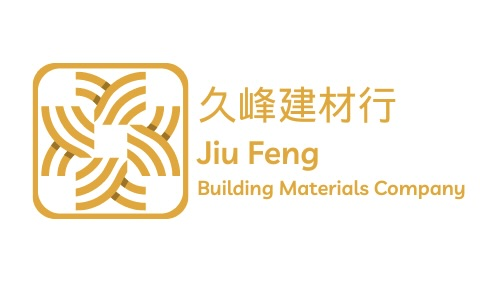
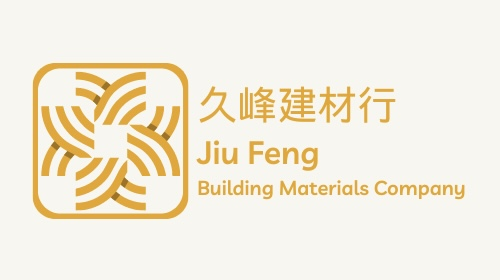
更新圖片與輪播，並完成header與banner排版

diff --git a/index.css b/index.css
@@ -1,106 +1,105 @@
 body {
-        margin: 0;
-        padding: 0;
-        font-family: Arial, sans-serif;
-        background-color: #f8f6f0;
-    }
+	margin: 0;
+	padding: 0;
+	font-family: Arial, sans-serif;
+	background-color: #f8f6f0;
+}
 .header {
-    background-color: transparent; /* 修改為透明 */
-    padding: 20px;
-    text-align: left;
-    height: 15vh;
-    display: flex;
-    align-items: center;
-    justify-content: space-between;
-    position: relative;
-  }
-  
-  .logo {
-    height: 100%;
-    margin-right: 20px;
-    float: left; /* 加入左浮動 */
-  }
-  
-  .logo img {
-    height: 100%;
-  }
+	background-color: transparent;
+	/* 修改為透明*/
+	padding: 20px;
+	text-align: left;
+	height: 15vh;
+	display: flex;
+	align-items: center;
+	justify-content: space-between;
+	position: relative;
+}
+.logo {
+	height: 100%;
+	margin-right: 20px;
+	float: left;
+	/* 加入左浮動*/
+	
+}
+.logo img {
+	height: 100%;
+}
+.menu {
+	list-style-type: none;
+	padding: 0;
+	margin: 0;
+	display: flex;
+	justify-content: flex-end;
+	/* 修改為右對齊*/
+	align-items: center;
+}
+.menu li {
+	margin-right: 20px;
+}
+.menu a {
+	text-decoration: none;
+	color: #333;
+	transition: color 0.2s ease;
+	font-size: 24px;
+	background-color: #fff;
+	border-radius: 10px;
+	padding: 10px 30px;
+}
+.menu li:hover {
+	transform: scale(1.2);
+	transition: transform 0.2s ease;
+}
+.menu li:hover a {
+	color: #666;
+}
+.banner {
+	width: 95vw;
+	height: auto;
+	background-color: #f8f6f0;
+	padding: 20px 0 20px 20px;
+	box-sizing: border-box;
+	position: relative;
+	float: right;	
+}
+.slick-slide {
+	text-align: center;
+	font-size: 18px;
+	background: #f8f6f0;
+	display: flex;
+	justify-content: center;
+	align-items: center;
+	max-height: 100%;
+  border-radius: 150px 0 0 150px;
+  overflow: hidden;
+}
 
-  .menu {
-    list-style-type: none;
-    padding: 0;
-    margin: 0;
-    display: flex;
-    justify-content: flex-end; /* 修改為右對齊 */
-    align-items: center;
-  }
-  
-  .menu li {
-    margin-right: 20px;
-  }
-  
-  .menu a {
-    text-decoration: none;
-    color: #333;
-    transition: color 0.2s ease;
-    font-size: 24px;
-    background-color: #fff;
-    border-radius: 10px;
-    padding: 10px 30px;
-  }
-  
-  .menu li:hover {
-    transform: scale(1.2);
-    transition: transform 0.2s ease;
-  }
-
-  .menu li:hover a{
-    color: #666;
-  }
-  
-  .banner {
-    width: 100%;
-    height: 300px;
-    background-color: #f8f6f0;
-    padding: 20px;
-    box-sizing: border-box;
-    position: relative; /* 加入相對定位 */
-  }
-  
-  .slick-slider {
-    width: 100%;
-    height: 100%;
-  }
-  
-  .slick-slide {
-    text-align: center;
-    font-size: 18px;
-    background: #fff;
-    display: flex;
-    justify-content: center;
-    align-items: center;
-    height: 100%;
-    transition: transform 0.3s ease;
-  }
-  
-  .slick-slide img {
-    width: 100%;
-    height: 100%;
-    object-fit: cover;
-    border-radius: 10px;
-    box-shadow: 0 2px 4px rgba(0, 0, 0, 0.1);
-  }
-  .slick-prev {
-    position: absolute;
-    left: 0; /* 左邊距離 */
-    z-index: 1; /* 層級提高到最上層 */
-    transform: translateY(-50%); /* 水平置中 */
-    top: 50%; /* 頂部距離 */
-  }
-  
-  .slick-next {
-    position: absolute;
-    right: 0; /* 右邊距離 */
-    z-index: 1; /* 層級提高到最上層 */
-    transform: translateY(-50%); /* 水平置中 */
-    top: 50%; /* 頂部距離 */
-  }
+.slick-slide img {
+	width: 100%;
+	height: auto;
+  max-height: 100%;
+	object-fit: contain;  
+	box-shadow: 0 2px 4px rgba(0, 0, 0, 0.1);
+}
+.slick-prev {
+	position: absolute;
+	left: 0;
+	/* 左邊距離*/
+	z-index: 1;
+	/* 層級提高到最上層*/
+	transform: translateY(-50%);
+	/* 水平置中*/
+	top: 50%;
+	/* 頂部距離*/
+	 }
+.slick-next {
+	position: absolute;
+	right: 0;
+	/* 右邊距離*/
+	z-index: 1;
+	/* 層級提高到最上層*/
+	transform: translateY(-50%);
+	/* 水平置中*/
+	top: 50%;
+	/* 頂部距離*/
+	 }

diff --git a/index.html b/index.html
@@ -4,7 +4,7 @@
     <meta charset="UTF-8">
     <meta name="viewport" content="width=device-width, initial-scale=1.0">
     <title>My Web 2024/09/08</title>
-    ㄏ
+    <link rel="stylesheet" href="index.css">
     <link rel="stylesheet" href="https://cdnjs.cloudflare.com/ajax/libs/slick-carousel/1.8.1/slick.min.css">
     <link rel="stylesheet" href="https://cdnjs.cloudflare.com/ajax/libs/font-awesome/5.15.3/css/all.min.css">
     <script src="https://cdnjs.cloudflare.com/ajax/libs/jquery/3.5.1/jquery.min.js"></script>
@@ -15,13 +15,13 @@
     <div class="banner">
         <div class="slick-slider">
             <div class="slick-slide">
-                <h2>1banner</h2>
+                <img src="banner1.jpeg" alt="Banner 1">
             </div>
             <div class="slick-slide">
-                <h2>2banner</h2>
+                <img src="banner2.jpeg" alt="Banner 1">
             </div>
             <div class="slick-slide">
-                <h2>3banner</h2>
+                <img src="banner3.jpeg" alt="Banner 1">
             </div>
         </div>
     </div>
@@ -39,16 +39,14 @@
                 })
                 .catch(error => console.error(error));
             $('.slick-slider').slick({
-                dots: true,
+                fade:true,
                 infinite: true,
-                speed: 300,
+                speed: 1500,
                 slidesToShow: 1,
                 slidesToScroll: 1,
                 autoplay: true,
-                autoplaySpeed: 3000,
-                arrows: true,
-                prevArrow: '<button type="button" class="slick-prev"><i class="fas fa-chevron-left"></i></button>',
-                nextArrow: '<button type="button" class="slick-next"><i class="fas fa-chevron-right"></i></button>',
+                autoplaySpeed: 5000,
+                arrows: false,                
             });
         });
     </script>

diff --git a/header.css b/header.css
@@ -1,6 +1,6 @@
 .header {
 	background-color: transparent;
-	padding: 20px;
+	padding:10px 20px 0 20px;
 	text-align: left;
 	height: 15vh;
 	display: flex;
@@ -39,7 +39,9 @@
 .menu li:hover {
 	transform: scale(1.2);
 	transition: transform 0.2s ease;
+    
 }
 .menu li:hover a {
-	color: #666;
+	color: #fff;
+    background-color: rgb(208, 155, 45);
 }
